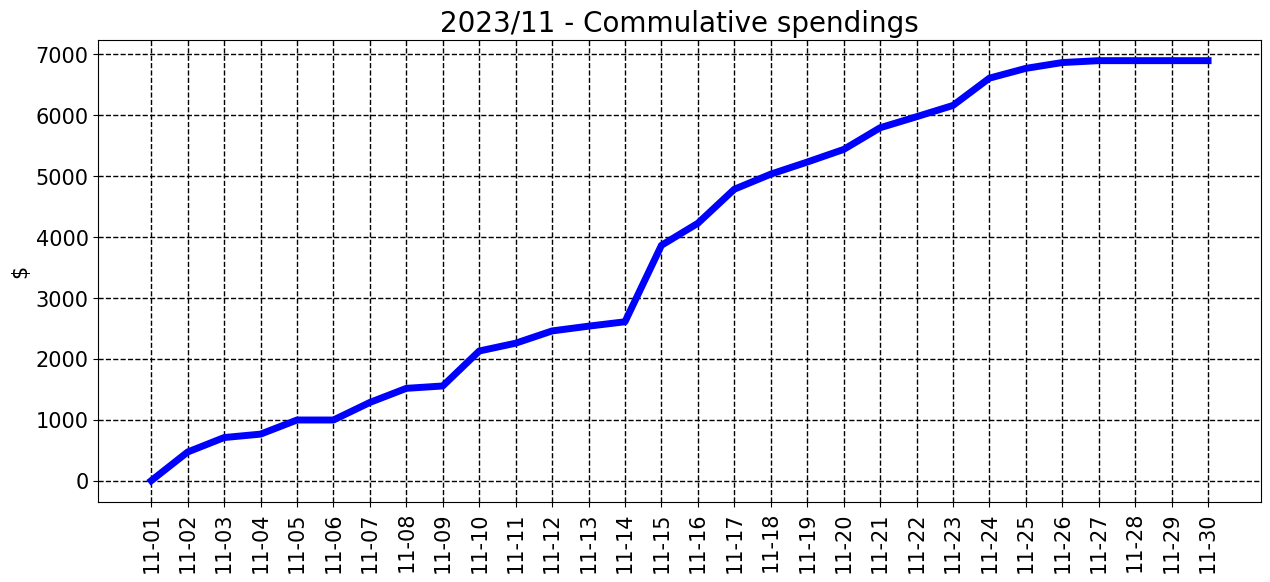
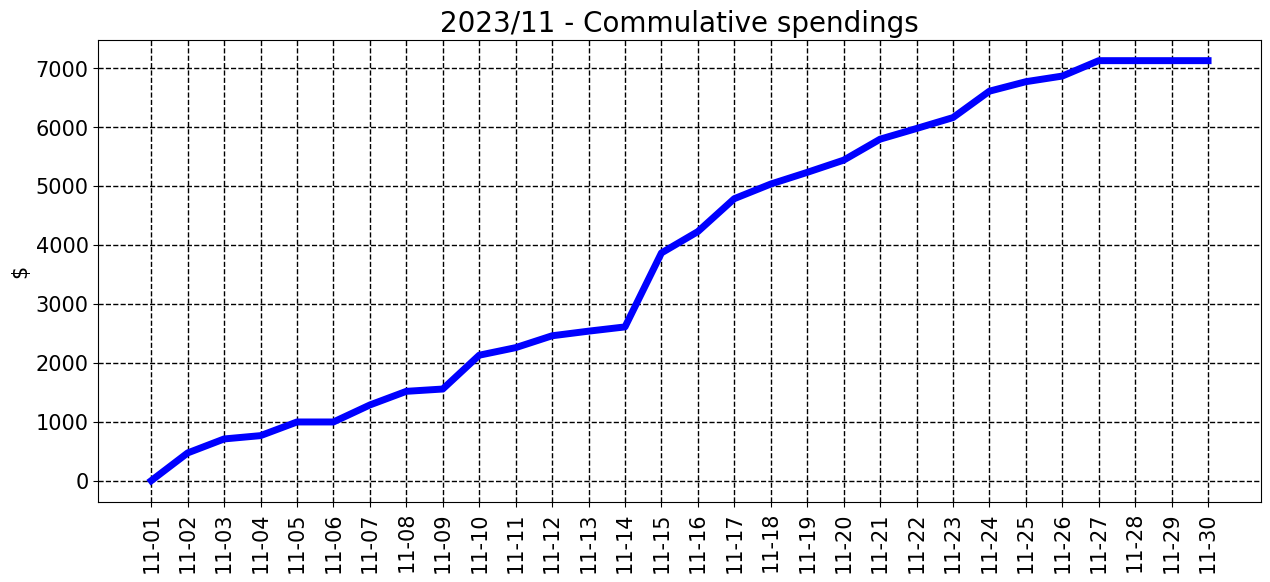
commit from python

Changed region(s): [[0.0307, 0.0619, 1.0, 0.6804], [0.0307, 0.6804, 0.9827, 0.7732], [0.1228, 0.7732, 0.1535, 0.8041]]

diff --git a/README.md b/README.md
@@ -7,7 +7,7 @@ __________________________________
 <sub><sup>
 | Spent | Avg daily | End of month projection | Spent since 2023/7 |
 |---|---|---|---|
-| $6892.0  |  $255.3  | $7659.0  |  $27196.0  |
+| $7122.0  |  $263.8  | $7914.0  |  $27426.0  |
 </sub></sup>
 __________________________________
 ![graph_11_sum](graph_11_sum.png)
